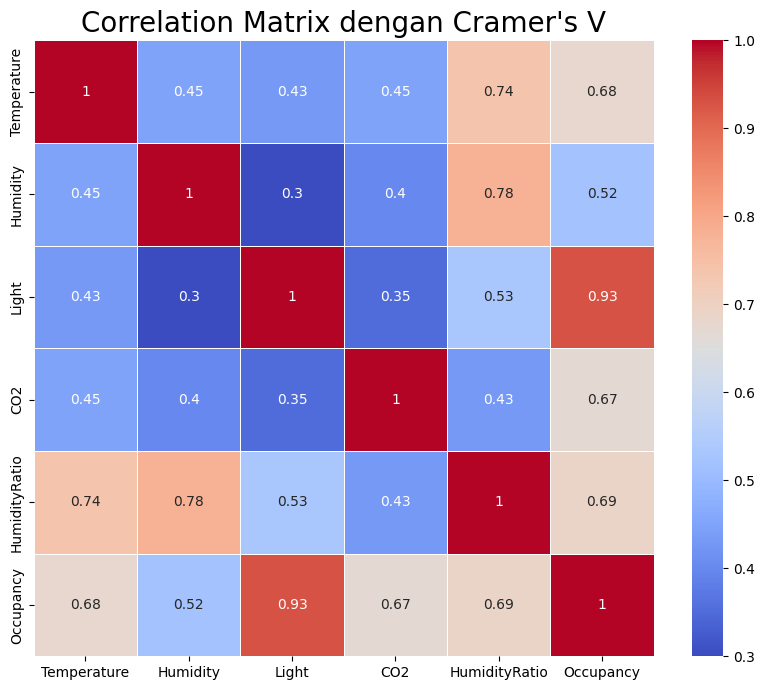
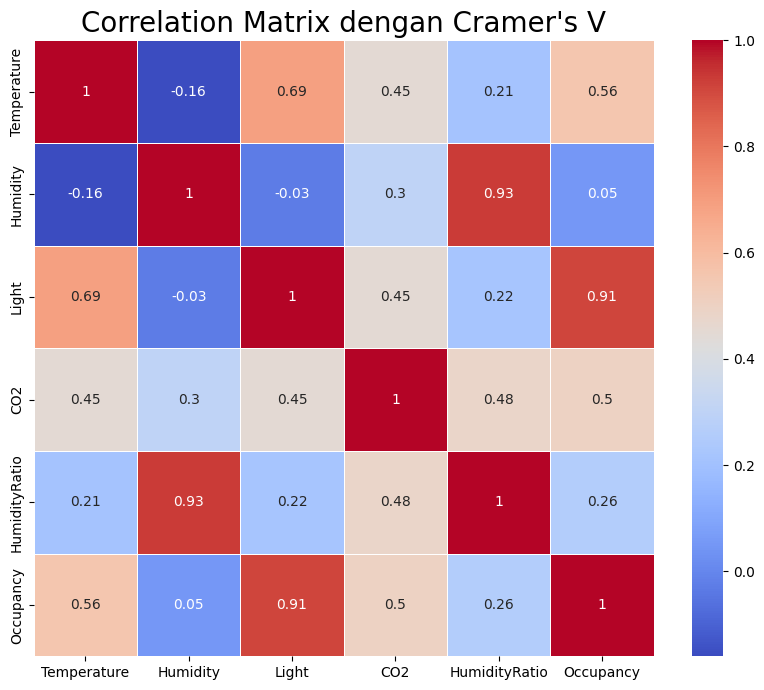
Idek

diff --git a/laporan.md b/laporan.md
@@ -115,32 +115,20 @@ Berikut adalah hasil analisis dari data tersebut:
 
 5. Correlation Matrix
 
-    Metode Pearson, yang merupakan default pada `df.corr()`, umumnya digunakan untuk memeriksa korelasi dari dua fitur kontinyu. Pada data yang digunakan, fitur occupancy merupakan fitur diskret (0 dan 1), sedangkan fitur lainnya adalah fitur kontinyu, sehingga kurang cocok menggunakan metode Pearson.
-
-    Disini, metode tes korelasi yang digunakan adalah metode *Cramer's V* atau koefisien Cramer yang lebih sesuai untuk kondisi tersebut. Koefisien Cramer dapat dicari dengan rumus
-
-    ![](pic/03-06.png)
-
-    - χ2 = Nilai statistik Chi-square
-    - n = Jumlah observasi
-    - r = Jumlah baris tabel kontingensi
-    - c = Jumlah kolom tabel kontingensi
-
-    Koefisien bernilai mendekati 1 menandakan korelasi yang kuat, sedangkan koefisien bernilai mendekati 0 menandakan korelasi yang lemah.
-
-    Dengan menggunakan metode tersebut, didapat Correlation Matrix sebagai berikut:
+    Berikut adalah hasil Correlation Matrix dari data:
 
     ![](pic/03-07.png)
 
-    Dari gambar diatas, terlihat bahwa fitur Light berkorelasi paling tinggi dengan fitur Occupancy dengan koefisien sebesar 0,93. Fitur Humidity berkorelasi paling rendah dengan koefisien sebesar 0,52. Semua fitur numerik memiliki koefisien diatas 0,5.
+    Dari gambar diatas, terlihat bahwa fitur Light berkorelasi paling tinggi dengan fitur Occupancy dengan koefisien sebesar 0,91. Fitur Humidity berkorelasi paling rendah dengan koefisien sebesar 0,05.
     
 ## 4. Data Preparation
 
 Preprocessing data di bawah ini dilakukan pada data training.
 
-1. Drop fitur HumidityRatio dan date
+1. Drop fitur date, HumidityRatio, dan Humidity
 
-    Fitur date adalah fitur timestamp unik dari masing-masing data. Fitur date didrop dengan tujuan agar model dapat melakukan deteksi hunian terlepas dari waktu kejadian dan hanya menggunakan fitur lain seperti cahaya. Sedangkan fitur HumidityRatio adalah fitur turunan dari humidity dan temperature, sehingga dapat didrop pula
+    Fitur date adalah fitur timestamp unik dari masing-masing data. Fitur date didrop dengan tujuan agar model dapat melakukan deteksi hunian terlepas dari waktu kejadian dan hanya menggunakan fitur lain seperti cahaya. 
+    Fitur HumidityRatio adalah fitur turunan dari humidity dan temperature, sehingga dapat didrop. Fitur Humidity juga didrop karena memiliki korelasi yang rendah denga fitur Occupancy.
 
 2. Oversampling dengan metode SMOTE
 
@@ -164,8 +152,14 @@ Sedangkan kekurangan dari algoritma ini adalah:
 
 Proses improvement pada model akan dilakukan dengan hyperparameter tuning menggunakan metode random search. Hyperparameter akan dipilih secara acak dari rentang berikut:
 
-- n_estimator (jumlah tree pada model): 100, 125, 150, 175, 200, 225, dst. sampai 500
-- max_depth (maksimal depth tiap tree): 3 sampai 20
+- n_estimator (jumlah tree pada model): 25 sampai 500
+- max_depth (maksimal depth tiap tree): 3 sampai 20, atau None
+- max_features (jumlah fitur pada setiap split): sqrt, log2, None
+- min_samples_split : 2 sampai 6
+
+Dari rentang di atas, 50 model dibuat dengan hyperparameter acak, lalu dipilih model dengan accuracy terbaik.
+
+Setelah membuat dan melatih model baseline dan model yang sudah di-tuned, dilakukan interpretasi model dengan mengukur *feature importances*, yakni mengukur fitur mana yang paling berpengaruh terhadap prediksi model. *Feature importances* dapat dihitung dengan memanggil method `feature_importances_` pada model.
 
 Tahapan melakukan modellingnya adalah sebagai berikut:
 
@@ -184,7 +178,13 @@ Tahapan melakukan modellingnya adalah sebagai berikut:
 4. Melakukan Random Search pada model Random Forest
 
     Random search juga menggunakan training data yang sudah dilakukan SMOTE
-    Model yang memiliki performa terbaik setelah melakukan random search adalah yang memiliki parameter `n_estimators` sebesar 375 dan `max_depth` sebesar 3.
+    Model yang memiliki performa terbaik setelah melakukan random search adalah yang memiliki parameter sebagai berikut:
+
+5. Interpretasi model
+
+    Berikut adalah hasil perhitungan *feature importances* dari model baseline dan model yang sudah di-tuned:
+
+    ![](pic/05-01.png)
 
 ## 6. Evaluation
 
